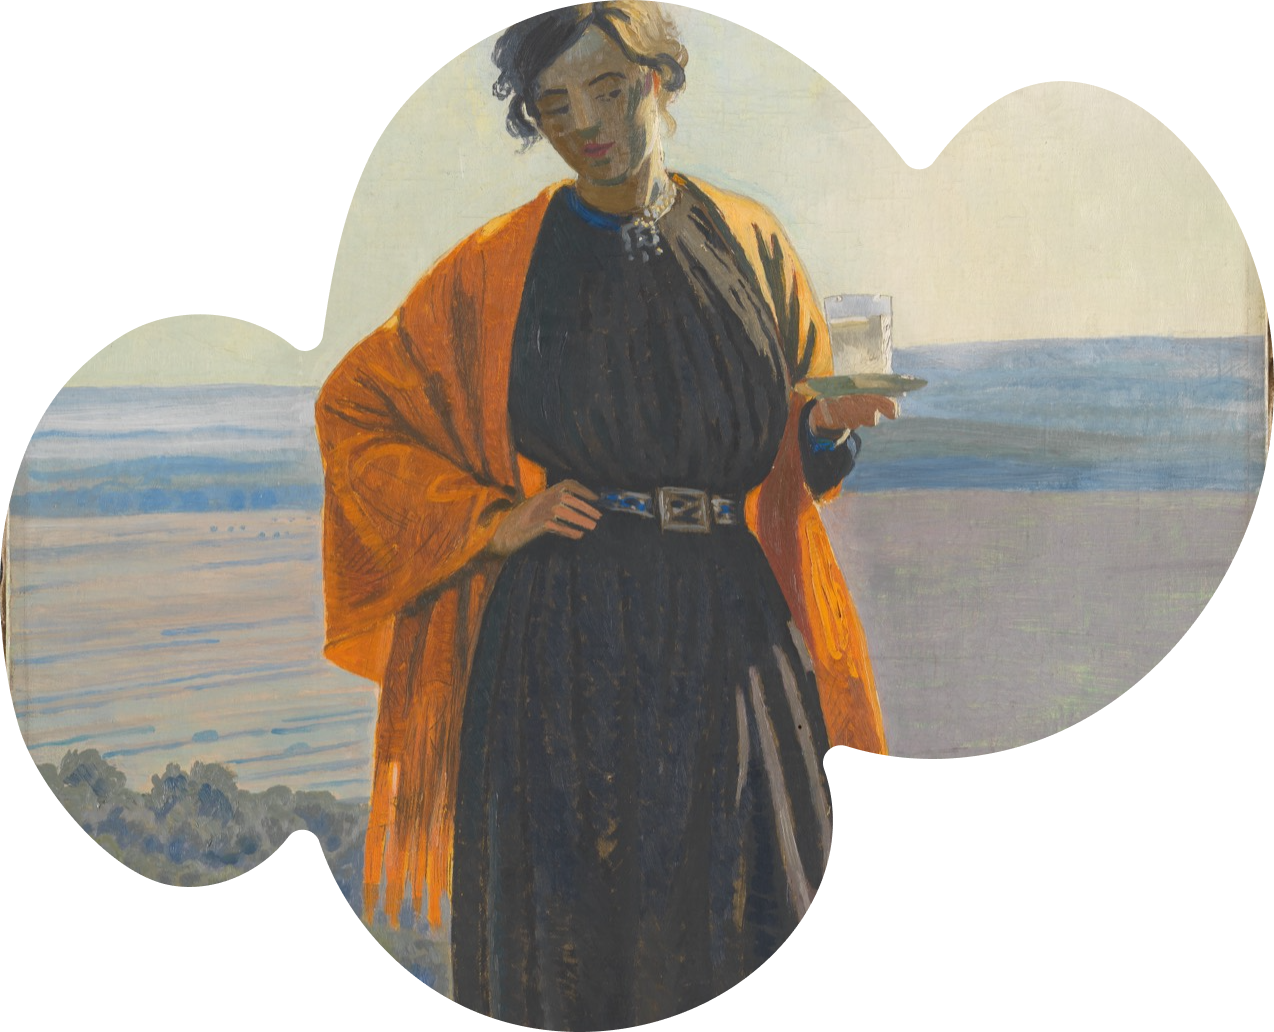
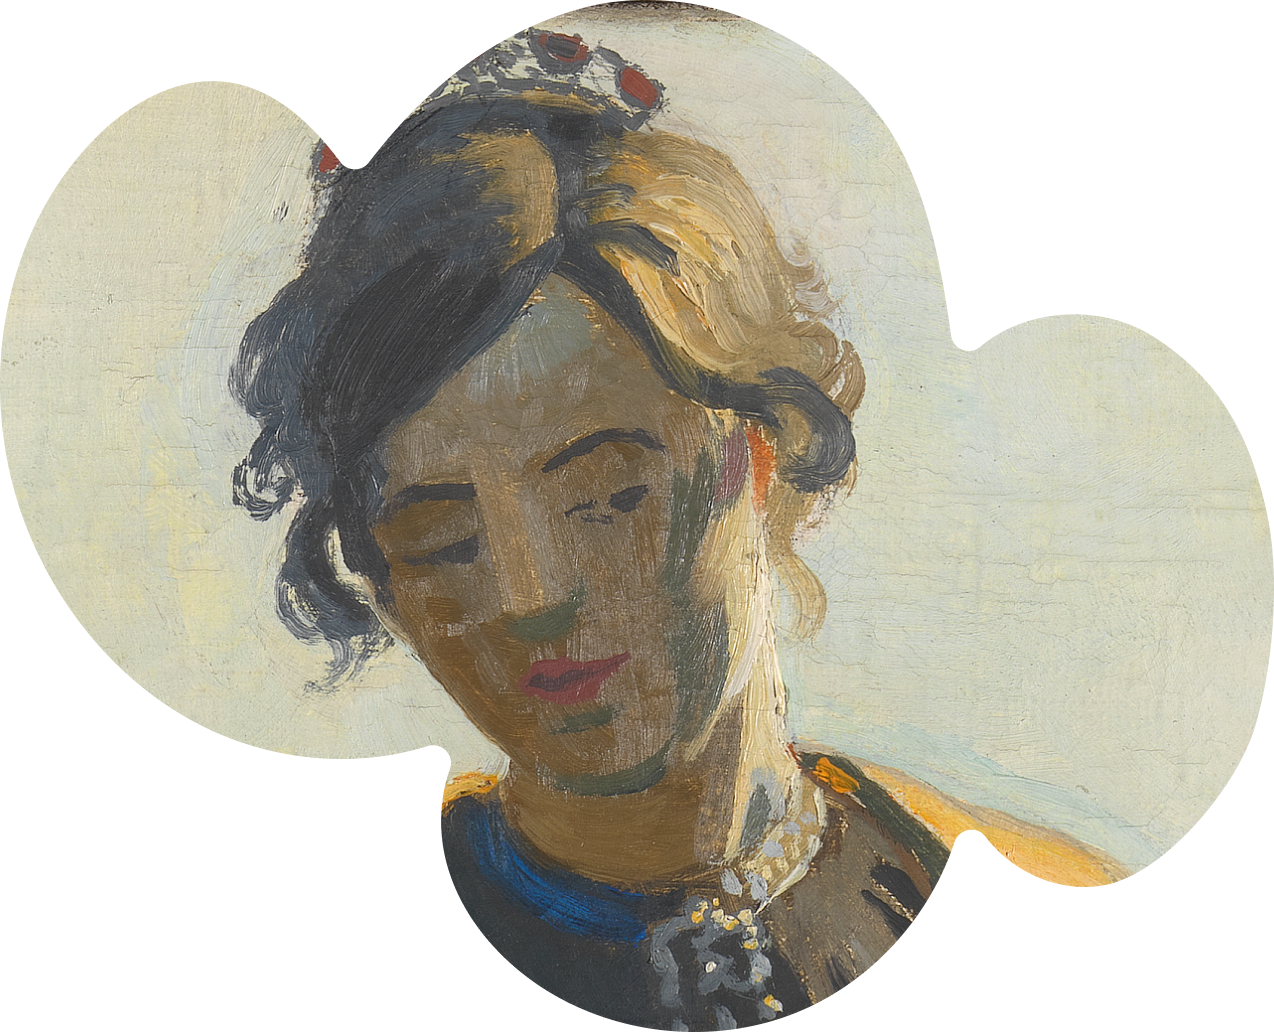
Crop the melkeglass painting so it no longer gives away the answer
The composite showed the glass of milk, which is the answer to "Hva holder
personen i hendene?" — the task was solvable from the screen without finding
the painting.

The crop is now her face and shoulders: source region x 0.33-0.64, y 0-0.208
of the original, cropped above the glass, its tray and her hand, which start
at y 0.23. Exclusion is by the crop rectangle rather than by the blob edge, so
the glass cannot reappear whichever silhouette is used.

The blob is mirrored horizontally, which centres her face in it. The painting
itself is not mirrored — children compare it against the real one on the wall.

Drops painting-melkeglass.jpg: it was the full uncropped view at 1274px, too
small to re-cut this crop from, so the full-res original is the source now.

diff --git a/figma/oppgave2.html b/figma/oppgave2.html
@@ -326,10 +326,14 @@
   }
   #task-layer { opacity: 0; pointer-events: none; }
 
-  /* melk-*.png are the melkeglass photo already composited into the same blob
+  /* melk-*.png are the melkeglass photo composited into the same blob
      silhouettes as the v2 paintings, so these are plain images like the v2 ones
-     rather than anything masked at runtime. Regenerate them from
-     painting-melkeglass.jpg if the crop needs to change. */
+     rather than anything masked at runtime.
+     The crop deliberately excludes the glass of milk — it is the answer to this
+     task, so showing it would give the game away. Source region is x 0.33-0.64,
+     y 0-0.208 of melkeglass.jpeg (the glass, its tray and her hand start at
+     y 0.23), and the blob is mirrored horizontally to frame her face. Regenerate
+     from the full-res melkeglass.jpeg if the crop needs to change. */
   #painting-find { position: absolute; left: 823px; top: 223px; width: 637px; height: 516px; }
   #painting-answer { position: absolute; left: 933px; top: 228px; width: 437px; height: 355px; }
 
